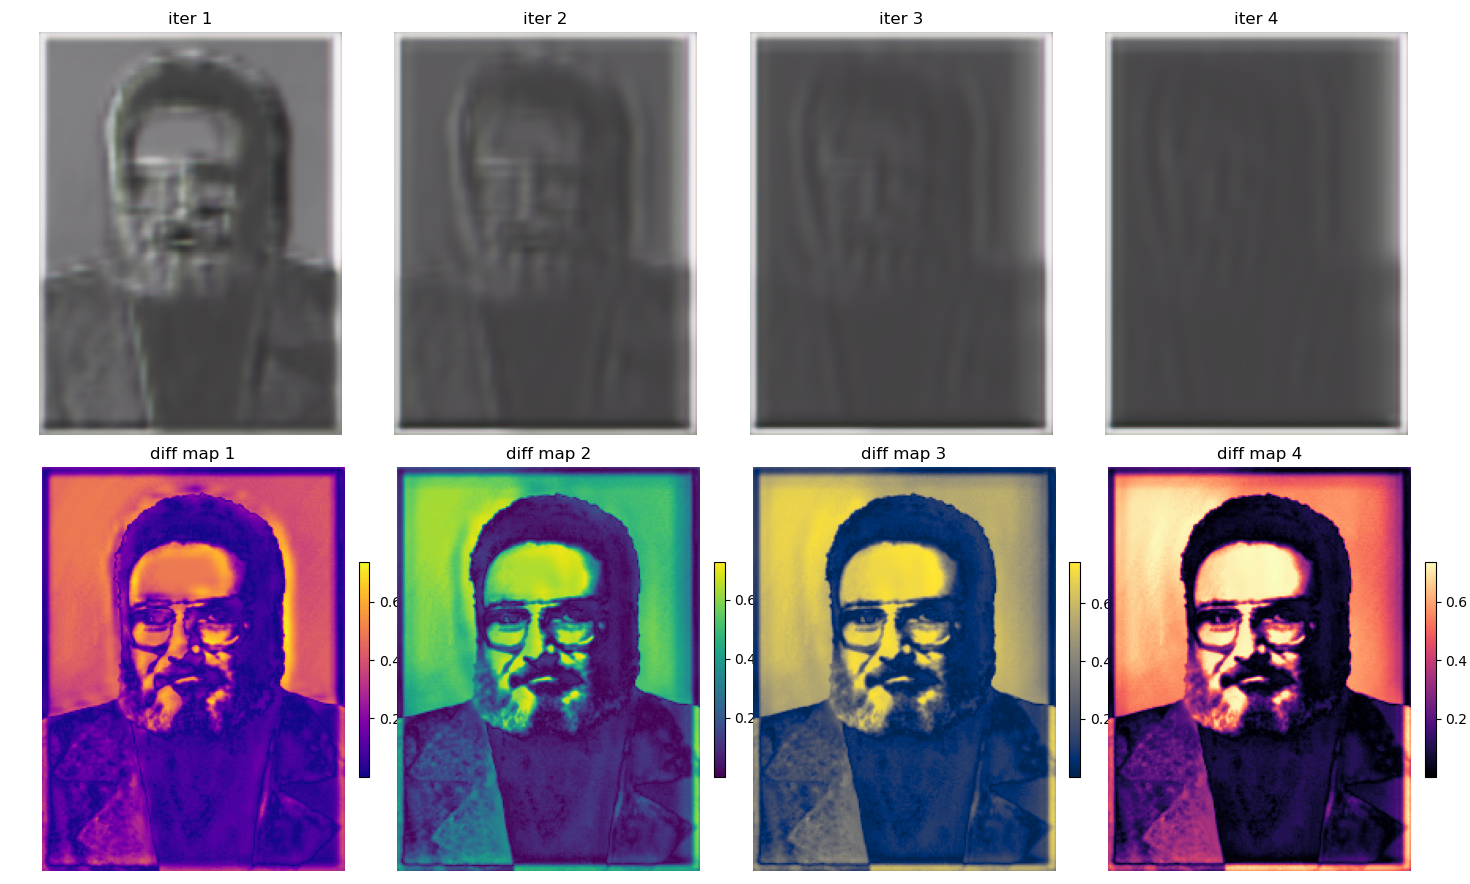
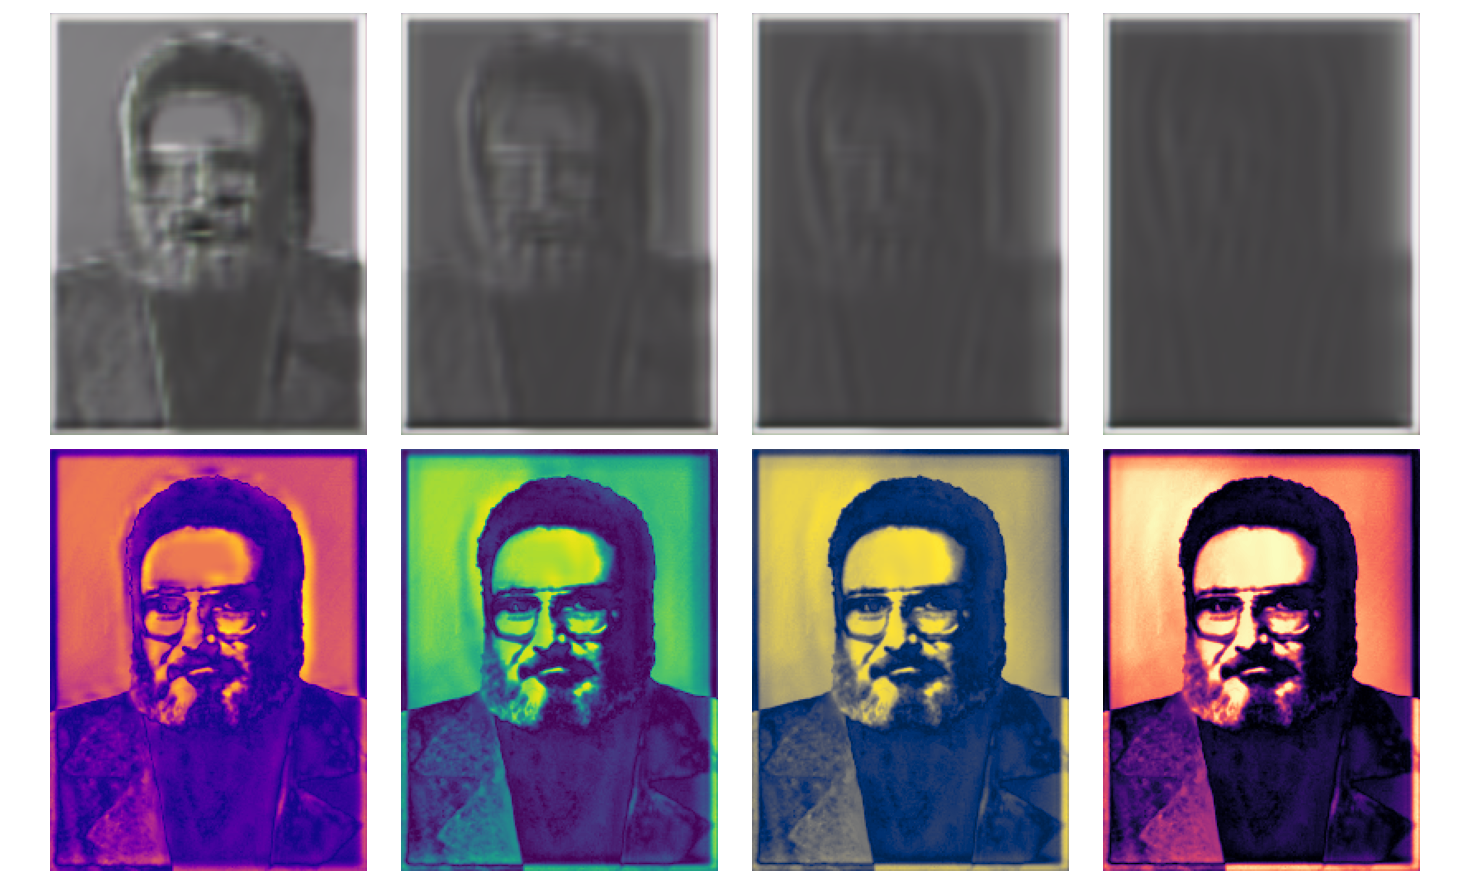
image pathing and new article

diff --git a/src/articles/Article4.tsx b/src/articles/Article4.tsx
@@ -1,0 +1,79 @@
+const Article4 = () => {
+  return (
+    <div>
+      <h1 style={{ paddingLeft: 50 }}>let us orient ourselves: </h1>
+      <div style={{ display: "flex" }}>
+        <div style={{ paddingLeft: 50, marginRight: 40, flex: 1 }}>
+          <img
+            src="public/maria0.jpg"
+            style={{ maxWidth: "104%", maxHeight: "auto" }}
+          />
+        </div>
+        <div style={{ flex: 1, fontSize: 14 }}>
+          <p>
+            Here is José Carlos Mariátegui. In 1924, a malignant tumor in his
+            left thigh required the amputation of the limb. For several days
+            after the operation, he thought that his leg was simply asleep. Two
+            years later in 1926, he founded the magazine Amauta to publish the
+            thoughts of a new radiant generation of Peruvian thinkers. Two years
+            later in 1928, he founded the Socialist Party of Peru, which would
+            later become the Communist Party of Peru, a splinter group of which
+            would later become the Shining Path. Two years later in 1930, he was
+            dead. Here is the ghost that will guide us.
+          </p>
+          <p>
+            About this photograph, he said: "Es una fotografía tomada en uno de
+            los nuevos parques de Lima, próximos a mi casa, por el pintor
+            argentino José Malanca, que a su paso por esta se hizo excelente
+            amigo mío."
+          </p>
+          <p>
+            In <i>Seven Interpretive Essays on Peruvian Reality</i>, Mariátegui
+            casts aside metaphysics. Mariátegui was interested in material. Said
+            another way: he was interested in metal. Problems of law, culture,
+            society, administration, ethics, education, and literature could not
+            be studied simply as such. They proceeded from reality. Which is to
+            say: the land.
+          </p>
+          <p>
+            For the Shining Path, the most ardently Mariáteguista solution is
+            then very simple. “The problem of the Peruvian peasant is the
+            problem of the land, and the problem of the land is summarized by
+            how to conquer that land," says Guzmán.
+          </p>
+          <p>
+            We will think about Mariátegui and we will think about the Shining,
+            and other, Path(s). We will learn to dream while still awake. We
+            will learn the beauty of the chance encounter of a sewing machine
+            and an umbrella on the dissecting table.
+          </p>
+          <p>
+            Let us look towards dreams and dream of another future, and another
+            past. Let us commit ourselves to a surrealism that is commited to
+            the visceral. Let us keep our minds swimming in invisible ether, but
+            our feet on the ground.
+          </p>
+          <p>
+            In literature, realism alienated us from reality. Realist experience
+            has simply shown us that we can only encounter reality through the
+            path of fantasy. Mariátegui said this.
+          </p>
+          <p>
+            Finally, a word of caution from the master of interpreting reality:
+          </p>
+          <p>
+            "But fiction is not free. More than unveil for us the marvelous (lo
+            maravilloso), it seems destined to reveal the real to us. When
+            fantasy does not bring us closer to reality, it does not amount to
+            much. Philosophers draw on false concepts to arrive at the truth.
+            Men of letters use fiction for the same purpose. Fantasy only has
+            value when it creates something real. This is its limitation. This
+            is its drama."
+          </p>
+        </div>
+      </div>
+    </div>
+  );
+};
+
+export default Article4;

diff --git a/src/articles/Article2.tsx b/src/articles/Article2.tsx
@@ -1,0 +1,58 @@
+const Article2 = () => {
+  return (
+    <div>
+      <h1 style={{ paddingLeft: 50 }}>let us disorient ourselves: </h1>
+      <div style={{ display: "flex" }}>
+        <div style={{ paddingLeft: 50, marginRight: 40, flex: 1 }}>
+          <p>
+            Let me take a page of Mariátegui's book and leave you with an
+            epigraph from a long dead German. Mariátegui's German of choice was
+            Nietzsche.
+          </p>
+          <p>
+            He wanted to write "as Nietzsche would have wished, for he did not
+            love authors who strained after the intentional, deliberate
+            production of a book, but rather those whose thoughts formed a book
+            spontaneously and without premeditation." Mariátegui wrote with his
+            blood. That is to say: his life and his work were one cybernetic
+            organism.
+          </p>
+          <p>My German of choice is Rilke, who is actually Austrian.</p>
+          <br></br>
+          <br></br>
+          <b>PORTRAIT OF MY FATHER AS A YOUNG MAN</b> <br></br>
+          <br></br>
+          Dream in the eyes. The brow as in relation<br></br>
+          with something distant. Mouth with more than the norm <br></br>Of
+          youth, unsmilingly diffused temptation, <br></br>and, placed before
+          the corded decoration<br></br> of the slim, gentlemanly uniform,
+          <br></br> the sabre-hilt and those two hands, that stay<br></br>{" "}
+          quiescent, – with no passionate intent.<br></br> And hardly to be seen
+          now: as if they<br></br> were first to vanish, grasping the unscanned.
+          <br></br>
+          And all the rest in self-envelopment<br></br> and quenched as if we
+          didn’t understand<br></br> and deeply, from its very depth, opaque.
+          <br></br>
+          You swiftly fading daguerreotype I take<br></br> in my more gradually
+          fading hand.
+        </div>
+        <div style={{ flex: 1 }}>
+          <img
+            src="public/guzmanfig.png"
+            style={{ maxWidth: "80%", height: "auto" }}
+          />
+          <img
+            src="public/interviewfig.png"
+            style={{ maxWidth: "80%", height: "auto" }}
+          />
+          <img
+            src="public/mariafig.png"
+            style={{ maxWidth: "80%", height: "auto" }}
+          />
+        </div>
+      </div>
+    </div>
+  );
+};
+
+export default Article2;

diff --git a/src/Home.tsx b/src/Home.tsx
@@ -9,14 +9,14 @@ const Home = () => {
       <div style={{ display: "flex", fontSize: 14 }}>
         <div style={{ paddingLeft: 50, marginRight: 40, flex: 1 }}>
           <p>
-            In 1928, José Carlos Mariátegui wrote a book. The book was titled
-            simply: <i>Seven Interpretive Essays on Peruvian Reality.</i>{" "}
-            Mariáteguistas have puzzled over Peruvian reality ever since.
+            In 1928, José Carlos Mariátegui wrote a book. The book was titled:{" "}
+            <i>Seven Interpretive Essays on Peruvian Reality.</i> Mariáteguistas
+            have puzzled over Peruvian reality ever since.
           </p>
           <p>
             In either 1968 or 1969, Abimael Guzmán, chairman of the Shining
             Path, gave a lecture at the Universidad Nacional de San Cristóbal de
-            Huamanga in Ayachucho. The lecture was titled simply:{" "}
+            Huamanga in Ayachucho. The lecture was titled:{" "}
             <i>To Understand Mariátegui</i>.
           </p>
           <p>Guzmán says:</p>
@@ -28,7 +28,7 @@ const Home = () => {
           </p>
           <p>
             In 2016, shane (mariáte)greene, punk anthropologist, wrote a book
-            published by Duke University Press. The book was titled simply:{" "}
+            published by Duke University Press. The book was titled:{" "}
             <i>
               punk and revolution: 7 more interpretations of peruvian reality
             </i>
@@ -37,9 +37,9 @@ const Home = () => {
           <p>(mariáte)greene says:</p>
           <p>"Thanks go to the ghost of Mariátegui for putting up with me."</p>
           <p>
-            I want to take this space to think about ghosts. Here, I want to
-            think about inheritance of the intellect. Think: Mariátegui. Let us
-            talk methodology.
+            So: I want to take this space to think about ghosts. The ghost of
+            Mariátegui, still bound to his wheelchair, still righteous and
+            angry, still interpreting Peruvian reality.
           </p>
           <p>
             Let it be known that I will respect the page. By that I mean that

diff --git a/src/articles/Article1.tsx b/src/articles/Article1.tsx
@@ -1,16 +1,11 @@
 const Article1 = () => {
   return (
-    <div style={{ paddingLeft: 50, paddingRight: 300 }}>
-      <h1> on the question of these chinese-peruvian dogs:</h1>
-      <p>
-        On December 26, 1980, residents of Ayacucho, Peru woke up to find dead
-        dogs strung up and hung from lamp posts. Their corpses were wrapped with
-        signs that read “Deng Xiaoping son of a bitch”{" "}
-        <i>(Teng Hsiao-Ping hijo de perra)</i>, and rumors began to circulate
-        that explosives were hidden among the dogs. Members of the Shining Path{" "}
-        <i>(Sendero Luminoso)</i>, a militant Peruvian Maoist organization, hung
-        the dogs in Ayacucho as well as in Lima on the birthday of Mao Zedong
-      </p>
+    <div>
+      <h1 style={{ paddingLeft: 50 }}>the compromised image: </h1>
+      <div style={{ display: "flex" }}>
+        <div style={{ paddingLeft: 50, marginRight: 40, flex: 1 }}></div>
+        <div style={{ flex: 1 }}></div>
+      </div>
     </div>
   );
 };

diff --git a/src/App.tsx b/src/App.tsx
@@ -3,7 +3,8 @@ import { HashRouter as Router, Routes, Route } from "react-router-dom"; // Use H
 import Navbar from "./components/Navbar";
 import Home from "./Home";
 import Article1 from "./articles/Article1";
-import Article2 from "../public/Article2";
+import Article2 from "./articles/Article2";
+import Article4 from "./articles/Article4";
 import Books from "./Books";
 
 const App = () => {
@@ -20,6 +21,7 @@ const App = () => {
       >
         <Routes>
           <Route path="/" element={<Home />} />
+          <Route path="/article4" element={<Article4 />} />
           <Route path="/article2" element={<Article2 />} />
           <Route path="/article1" element={<Article1 />} />
         </Routes>

diff --git a/src/components/Navbar.tsx b/src/components/Navbar.tsx
@@ -3,8 +3,9 @@ import { Link, useLocation } from "react-router-dom";
 
 const links = [
   { path: "/", label: "to understand mariátegui" },
-  { path: "/article2", label: "let us orient ourselves" },
-  { path: "/article1", label: "?" },
+  { path: "/article4", label: "let us orient ourselves" },
+  { path: "/article2", label: "let us disorient ourselves" },
+  { path: "/article1", label: "the compromised image" },
   // You can easily add more here
 ];
 
